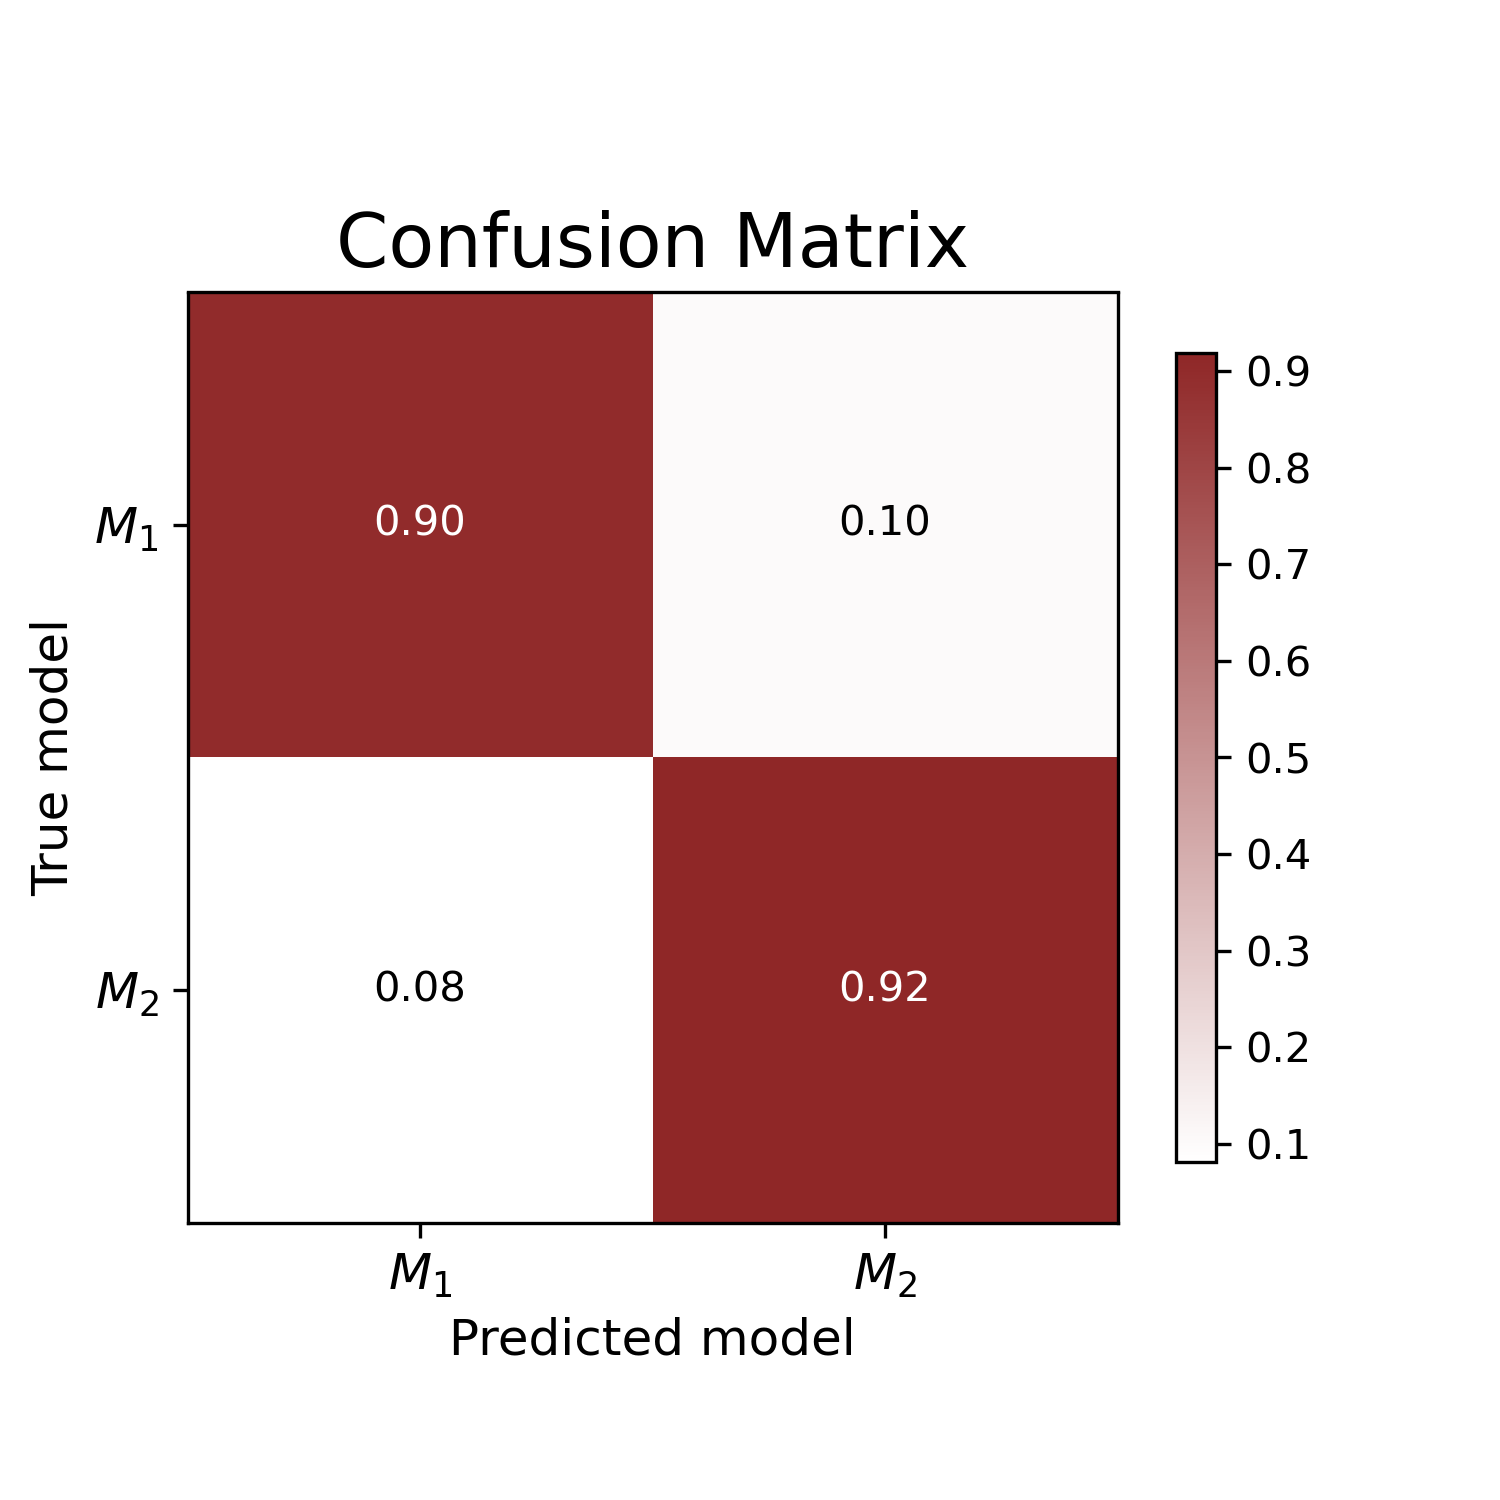
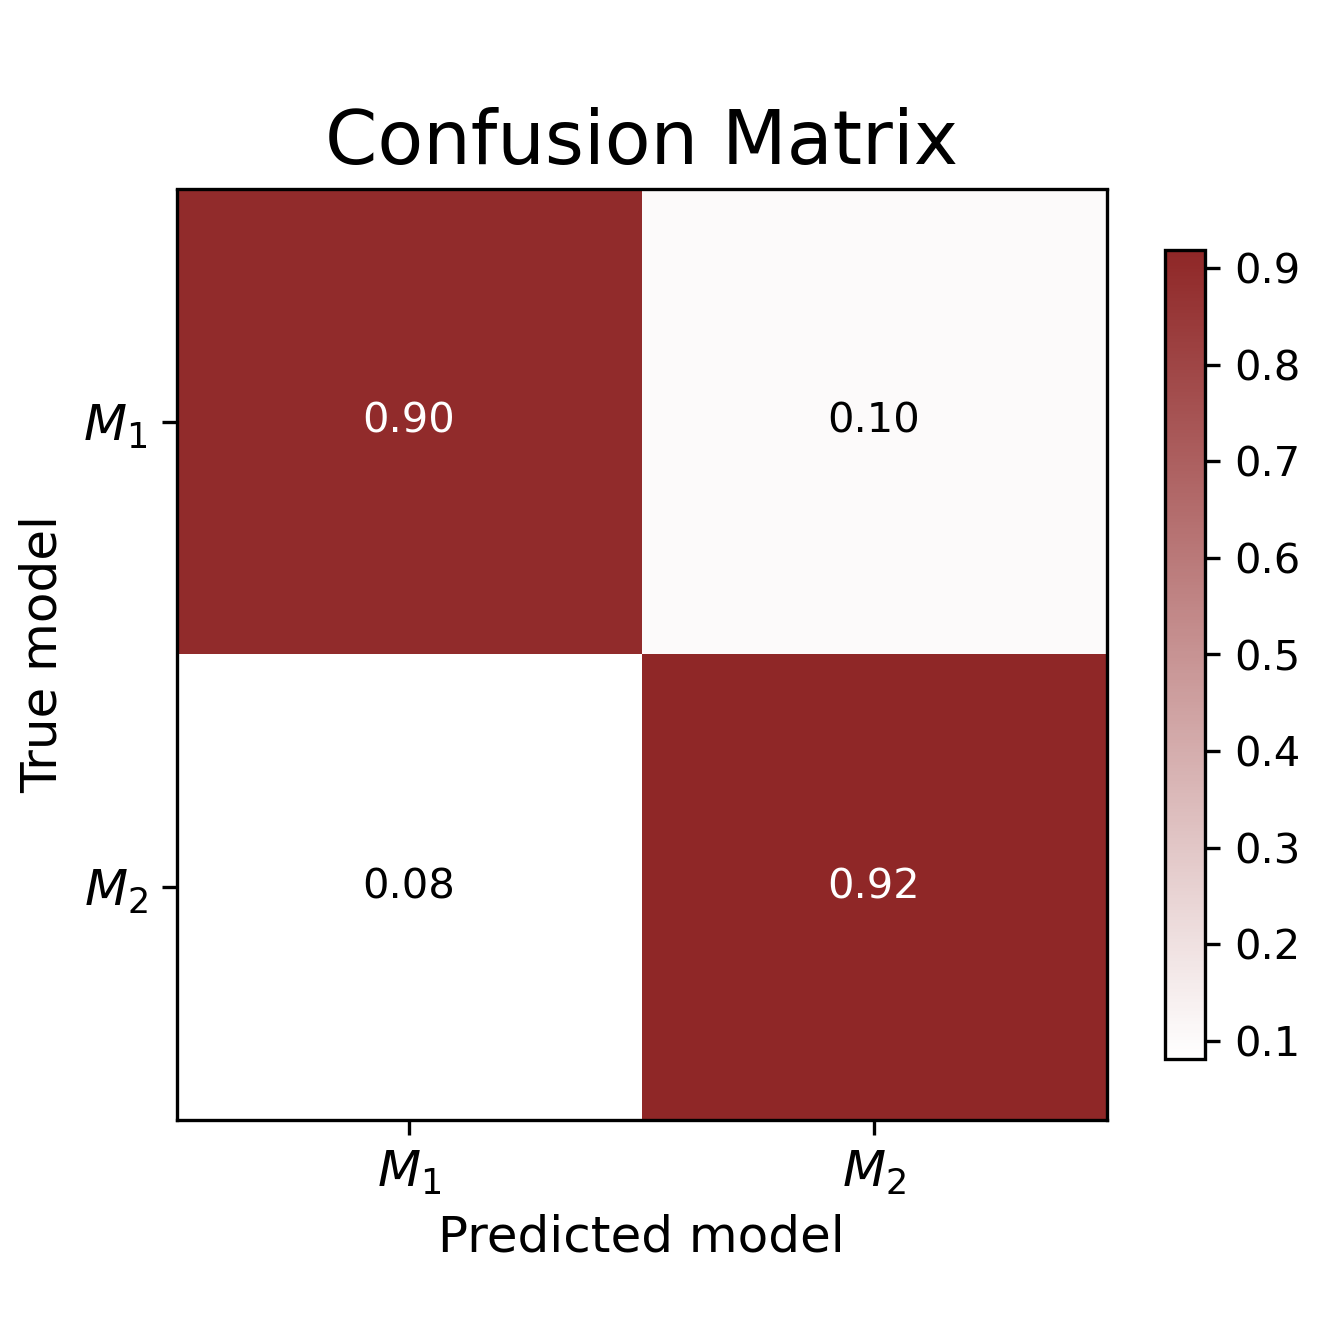
Rescale confusion matrix

diff --git a/README.md b/README.md
@@ -244,7 +244,7 @@ Our approximator shows excellent calibration, with the calibration curve being c
 conf_matrix = bf.diagnostics.plot_confusion_matrix(sim_indices, sim_preds)
 ```
 
-<img src="img/showcase_confusion_matrix.png" width=65% height=65%>
+<img src="img/showcase_confusion_matrix.png" width=44% height=44%>
 
 For the vast majority of simulated data sets, the generating model is correctly detected. With these diagnostic results backing us up, we can safely apply our trained network to empirical data.
 
